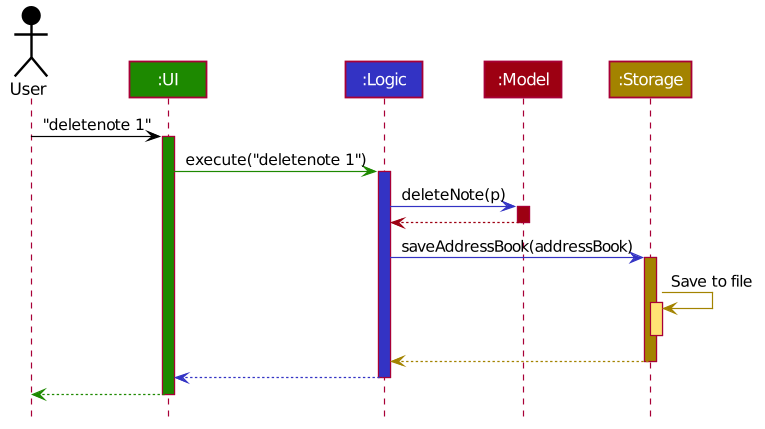
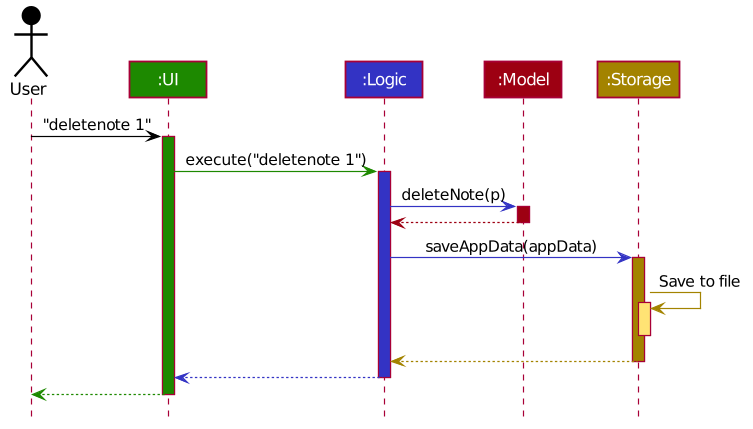
Rebuild pages at 604a74b92f3986fc87f287abe77a69f2c2b80c2d

diff --git a/DeveloperGuide.html b/DeveloperGuide.html
@@ -83,7 +83,9 @@ issues the command <code>deletenote 1</code>.</p>
 <p><em>API:</em> <a href="https://github.com/AY1920S1-CS2103T-F11-4/main/tree/master/src/main/java/seedu/address/ui/Ui.java"><code>Ui.java</code></a></p>
 </div>
 <div class="paragraph">
-<p>The UI consists of a <code>MainWindow</code> that is made up of parts e.g.<code>CommandBox</code>, <code>ResultDisplay</code>, <code>PersonListPanel</code>, <code>StatusBarFooter</code> etc. All these, including the <code>MainWindow</code>, inherit from the abstract <code>UiPart</code> class.</p>
+<p>The UI consists of a <code>MainWindow</code> that is made up of parts e.g.<code>CommandBox</code>, <code>ResultDisplay</code>,
+<code>NoteListPanel</code>, <code>StatusBarFooter</code>, etc. All these, including the <code>MainWindow</code>, inherit from the abstract
+<code>UiPart</code> class.</p>
 </div>
 <div class="paragraph">
 <p>The <code>UI</code> component uses JavaFX. The layout of these UI parts are defined in matching <code>.fxml</code> files that are in the <code>src/main/resources/view</code> folder. For example, the layout of the <a href="https://github.com/AY1920S1-CS2103T-F11-4/main/tree/master/src/main/java/seedu/address/ui/MainWindow.java"><code>MainWindow</code></a> is specified in <a href="https://github.com/AY1920S1-CS2103T-F11-4/main/tree/master/src/main/resources/view/MainWindow.fxml"><code>MainWindow.fxml</code></a></p>
@@ -116,7 +118,7 @@ issues the command <code>deletenote 1</code>.</p>
 <div class="olist arabic">
 <ol class="arabic">
 <li>
-<p><code>Logic</code> uses the <code>AddressBookParser</code> class to parse the user command.</p>
+<p><code>Logic</code> uses the <code>AppDataParser</code> class to parse the user command.</p>
 </li>
 <li>
 <p>This results in a <code>Command</code> object which is executed by the <code>LogicManager</code>.</p>
@@ -1489,4 +1491,4 @@ Expected: Similar to previous.</p>
 </div>
 </div>
 </div>
-</div></div><div id="footer"><div class="container"><div id="footer-text">Last updated 2019-10-20 08:13:49 UTC</div></div></div></body></html>
+</div></div><div id="footer"><div class="container"><div id="footer-text">Last updated 2019-10-20 08:18:56 UTC</div></div></div></body></html>

diff --git a/team/PortfolioParclyTaxel.html b/team/PortfolioParclyTaxel.html
@@ -232,6 +232,7 @@ kind of flash card</p>
 </li>
 </ul>
 </div>
+<hr>
 <h3 id="use-case-create-lecture-note-jeremy" class="discrete">Use case: Create lecture note (Jeremy)</h3>
 <div class="paragraph">
 <p><strong>MSS</strong></p>
@@ -376,4 +377,4 @@ It is not quizzable.</p>
 </dl>
 </div>
 </div>
-</div></div><div id="footer"><div class="container"><div id="footer-text">Last updated 2019-10-20 08:13:50 UTC</div></div></div></body></html>
+</div></div><div id="footer"><div class="container"><div id="footer-text">Last updated 2019-10-20 08:18:56 UTC</div></div></div></body></html>

diff --git a/UserGuide.html b/UserGuide.html
@@ -467,4 +467,4 @@ Format: <code>rndone</code></p>
 <strong>A</strong>: Install the app in the other computer and overwrite the empty data file it creates with the file that contains the data of your previous Address Book folder.</p>
 </div>
 </div>
-</div></div><div id="footer"><div class="container"><div id="footer-text">Last updated 2019-10-20 08:13:49 UTC</div></div></div></body></html>
+</div></div><div id="footer"><div class="container"><div id="footer-text">Last updated 2019-10-20 08:18:56 UTC</div></div></div></body></html>

diff --git a/Testing.html b/Testing.html
@@ -90,4 +90,4 @@ e.g. <code>seedu.address.logic.LogicManagerTest</code></p>
 <div class="title">Figure 1. <code>Accessibility</code> permission is granted to <code>IntelliJ IDEA</code></div>
 </div>
 </div>
-</div></div><div id="footer"><div class="container"><div id="footer-text">Last updated 2019-10-20 08:13:49 UTC</div></div></div></body></html>
+</div></div><div id="footer"><div class="container"><div id="footer-text">Last updated 2019-10-20 08:18:56 UTC</div></div></div></body></html>

diff --git a/DevOps.html b/DevOps.html
@@ -57,4 +57,4 @@ this project depends on the <a href="https://github.com/FasterXML/jackson">Jacks
 for JSON parsing. Managing these dependencies can be automated using Gradle.</p>
 </div>
 </div>
-</div></div><div id="footer"><div class="container"><div id="footer-text">Last updated 2019-10-20 08:13:49 UTC</div></div></div></body></html>
+</div></div><div id="footer"><div class="container"><div id="footer-text">Last updated 2019-10-20 08:18:56 UTC</div></div></div></body></html>

diff --git a/SettingUp.html b/SettingUp.html
@@ -131,4 +131,4 @@ Do not disable them. If you have disabled them, go to <code>File</code> &gt; <co
 </div>
 </div>
 </div>
-</div></div><div id="footer"><div class="container"><div id="footer-text">Last updated 2019-10-20 08:13:49 UTC</div></div></div></body></html>
+</div></div><div id="footer"><div class="container"><div id="footer-text">Last updated 2019-10-20 08:18:56 UTC</div></div></div></body></html>

diff --git a/UsingGradle.html b/UsingGradle.html
@@ -228,4 +228,4 @@ See <code>build.gradle</code> &#8594; <code>allprojects</code> &#8594; <code>dep
 </ul>
 </div>
 </div>
-</div></div><div id="footer"><div class="container"><div id="footer-text">Last updated 2019-10-20 08:13:49 UTC</div></div></div></body></html>
+</div></div><div id="footer"><div class="container"><div id="footer-text">Last updated 2019-10-20 08:18:56 UTC</div></div></div></body></html>

diff --git a/UsingNetlify.html b/UsingNetlify.html
@@ -123,4 +123,4 @@ The publish directory is the directory in which the built HTML documentation res
 </ol>
 </div>
 </div>
-</div></div><div id="footer"><div class="container"><div id="footer-text">Last updated 2019-10-20 08:13:49 UTC</div></div></div></body></html>
+</div></div><div id="footer"><div class="container"><div id="footer-text">Last updated 2019-10-20 08:18:56 UTC</div></div></div></body></html>

diff --git a/AboutUs.html b/AboutUs.html
@@ -94,4 +94,4 @@ Responsibilities: Implementing <code>Question</code> module and the test feature
 <hr>
 </div>
 </div>
-</div></div><div id="footer"><div class="container"><div id="footer-text">Last updated 2019-10-20 08:13:49 UTC</div></div></div></body></html>
+</div></div><div id="footer"><div class="container"><div id="footer-text">Last updated 2019-10-20 08:18:56 UTC</div></div></div></body></html>

diff --git a/Documentation.html b/Documentation.html
@@ -223,4 +223,4 @@ The SE-EDU team does not provide support for modified template files.</p>
 </table>
 </div>
 </div>
-</div></div><div id="footer"><div class="container"><div id="footer-text">Last updated 2019-10-20 08:13:49 UTC</div></div></div></body></html>
+</div></div><div id="footer"><div class="container"><div id="footer-text">Last updated 2019-10-20 08:18:56 UTC</div></div></div></body></html>

diff --git a/UsingTravis.html b/UsingTravis.html
@@ -271,4 +271,4 @@ Suggested change: Remove the codacy badge from <code>README</code>.</p>
 </div>
 </div>
 </div>
-</div></div><div id="footer"><div class="container"><div id="footer-text">Last updated 2019-10-20 08:13:49 UTC</div></div></div></body></html>
+</div></div><div id="footer"><div class="container"><div id="footer-text">Last updated 2019-10-20 08:18:56 UTC</div></div></div></body></html>

diff --git a/UsingPlantUml.html b/UsingPlantUml.html
@@ -337,4 +337,4 @@ Explicitly define all symbols to avoid any potential layout mishaps.
 </div>
 </div>
 </div>
-</div></div><div id="footer"><div class="container"><div id="footer-text">Last updated 2019-10-20 08:13:49 UTC</div></div></div></body></html>
+</div></div><div id="footer"><div class="container"><div id="footer-text">Last updated 2019-10-20 08:18:56 UTC</div></div></div></body></html>
